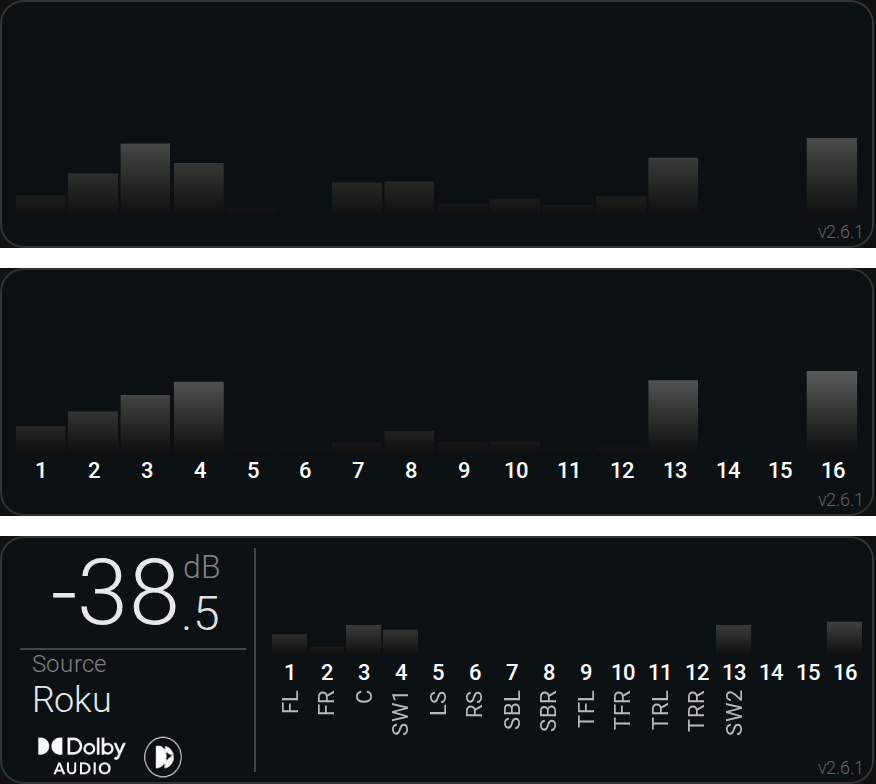
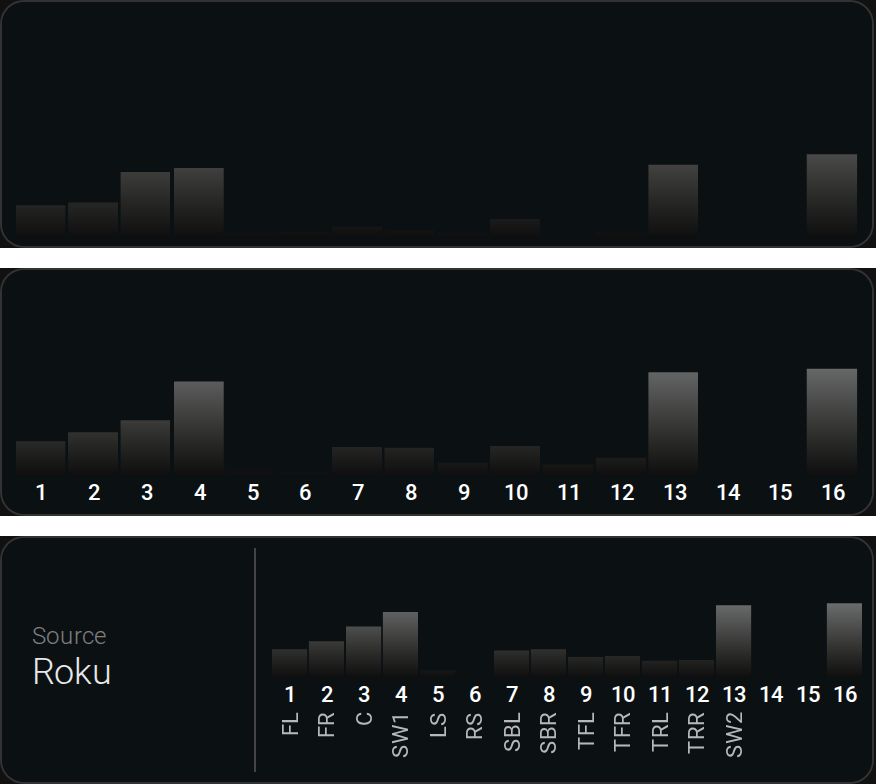
Take the version stamp off the mini tile
It was not asked for.  The tile screenshots are retaken without it.

diff --git a/custom_components/tide16/frontend/tide16-panel.js b/custom_components/tide16/frontend/tide16-panel.js
@@ -5108,7 +5108,6 @@ if (!window.customCards.some((c) => c.type === 'tide16-panel')) {
  *
  *   labels: none | numbers | names | both   (under the bars)
  *   side: [volume, source, decoder]         (the box on the left)
- *   version: false                          (drop the corner stamp)
  *
  * Nothing set is the bare meter across the whole tile.  The side box always
  * stacks volume, source, decoder in that order, whichever are listed, and is
@@ -5272,9 +5271,7 @@ function miniLayout(config) {
     left: miniPct(left),
     top: '3%',
     width: miniPct(side.length ? 68 : 97),
-    // The corner stamp gets a strip of its own under the labels, or column
-    // 16 would run into it.
-    height: `calc(94% - ${MINI_LABEL_PX[labels] + (config.version === false ? 0 : 11)}px)`,
+    height: `calc(94% - ${MINI_LABEL_PX[labels]}px)`,
   });
   elements.push(bars);
 
@@ -5291,19 +5288,6 @@ function miniLayout(config) {
       }
     });
     elements.push(miniRule({ left: '29%', top: '4%', width: '1px', height: '92%' }));
-  }
-
-  // The plate carries its version in a corner, and so does the tile - a
-  // screenshot then says which release it shows.  `version: false` drops it.
-  if (config.version !== false) {
-    elements.push({
-      type: 'custom:tide16-readout',
-      title: `v${TIDE16_VERSION}`,
-      title_size: '9px',
-      title_color: '#606060',
-      title_gap: '0',
-      style: { right: '1%', left: 'unset', bottom: '1.5%', top: 'unset', transform: 'translate(0, 0)' },
-    });
   }
 
   return {

diff --git a/README.md b/README.md
@@ -170,11 +170,11 @@ with the integration and a release can correct it.
 
 ### `custom:tide16-mini` - the mini tile
 
-![the Tide16 mini tile on an Overview dashboard](docs/tile.png?v=2.6.1)
+![the Tide16 mini tile on an Overview dashboard](docs/tile.png?h=d58ed6a4)
 
 *The tile on my Overview with every part switched on: -38.5 dB, Roku, Dolby
 upmixing through Dirac Live, and the 13 assigned outputs named up their
-columns.  The version it was taken at is in the bottom-right corner.*
+columns.*
 
 The panel is the whole front of the unit, and it is too wide for a
 dashboard column.  The tile is the small version, and every part of it
@@ -197,10 +197,9 @@ side: [volume, source, decoder]
 |---|---|---|
 | `labels` | `none` | What goes under the bars.  `numbers` is the `1`-`16` row, `names` is the decoder's name for each output written up its column, `both` is the numbers with the names under them |
 | `side` | none | A box on the left, holding any of `volume`, `source` and `decoder`.  Leave it out and the bars take the whole width |
-| `version` | `true` | The integration's version, small and grey in the bottom-right corner.  `false` drops it and gives the meter the strip it sat in |
 | `bars` | | Any other [`tide16-bars`](#tide16-bars---the-16-channel-meter) option, passed straight through - `level_gain`, `idle: false` and so on |
 
-![the tile bars only, with numbers, and with numbers, names and the source alone](docs/tile-options.png?v=2.6.1)
+![the tile bars only, with numbers, and with numbers, names and the source alone](docs/tile-options.png?h=c9978020)
 
 *Top to bottom: nothing set; `labels: numbers`; `labels: both` with
 `side: [source]`.*

diff --git a/CHANGELOG.md b/CHANGELOG.md
@@ -21,9 +21,6 @@ source, decoder and centred when they do not fill it.  With `labels: names`
 and all three, it is the v2.6.0 tile to the percent.  A value it does not
 know is an error in the card, not a part silently left off.
 
-The tile carries the version in its bottom-right corner, as the plate does,
-so a screenshot says which release it shows.  `version: false` drops it.
-
 The hand-built YAML is still in the README, folded under "Building it by
 hand", for anyone who wants to move a box the card has no option for.
 
